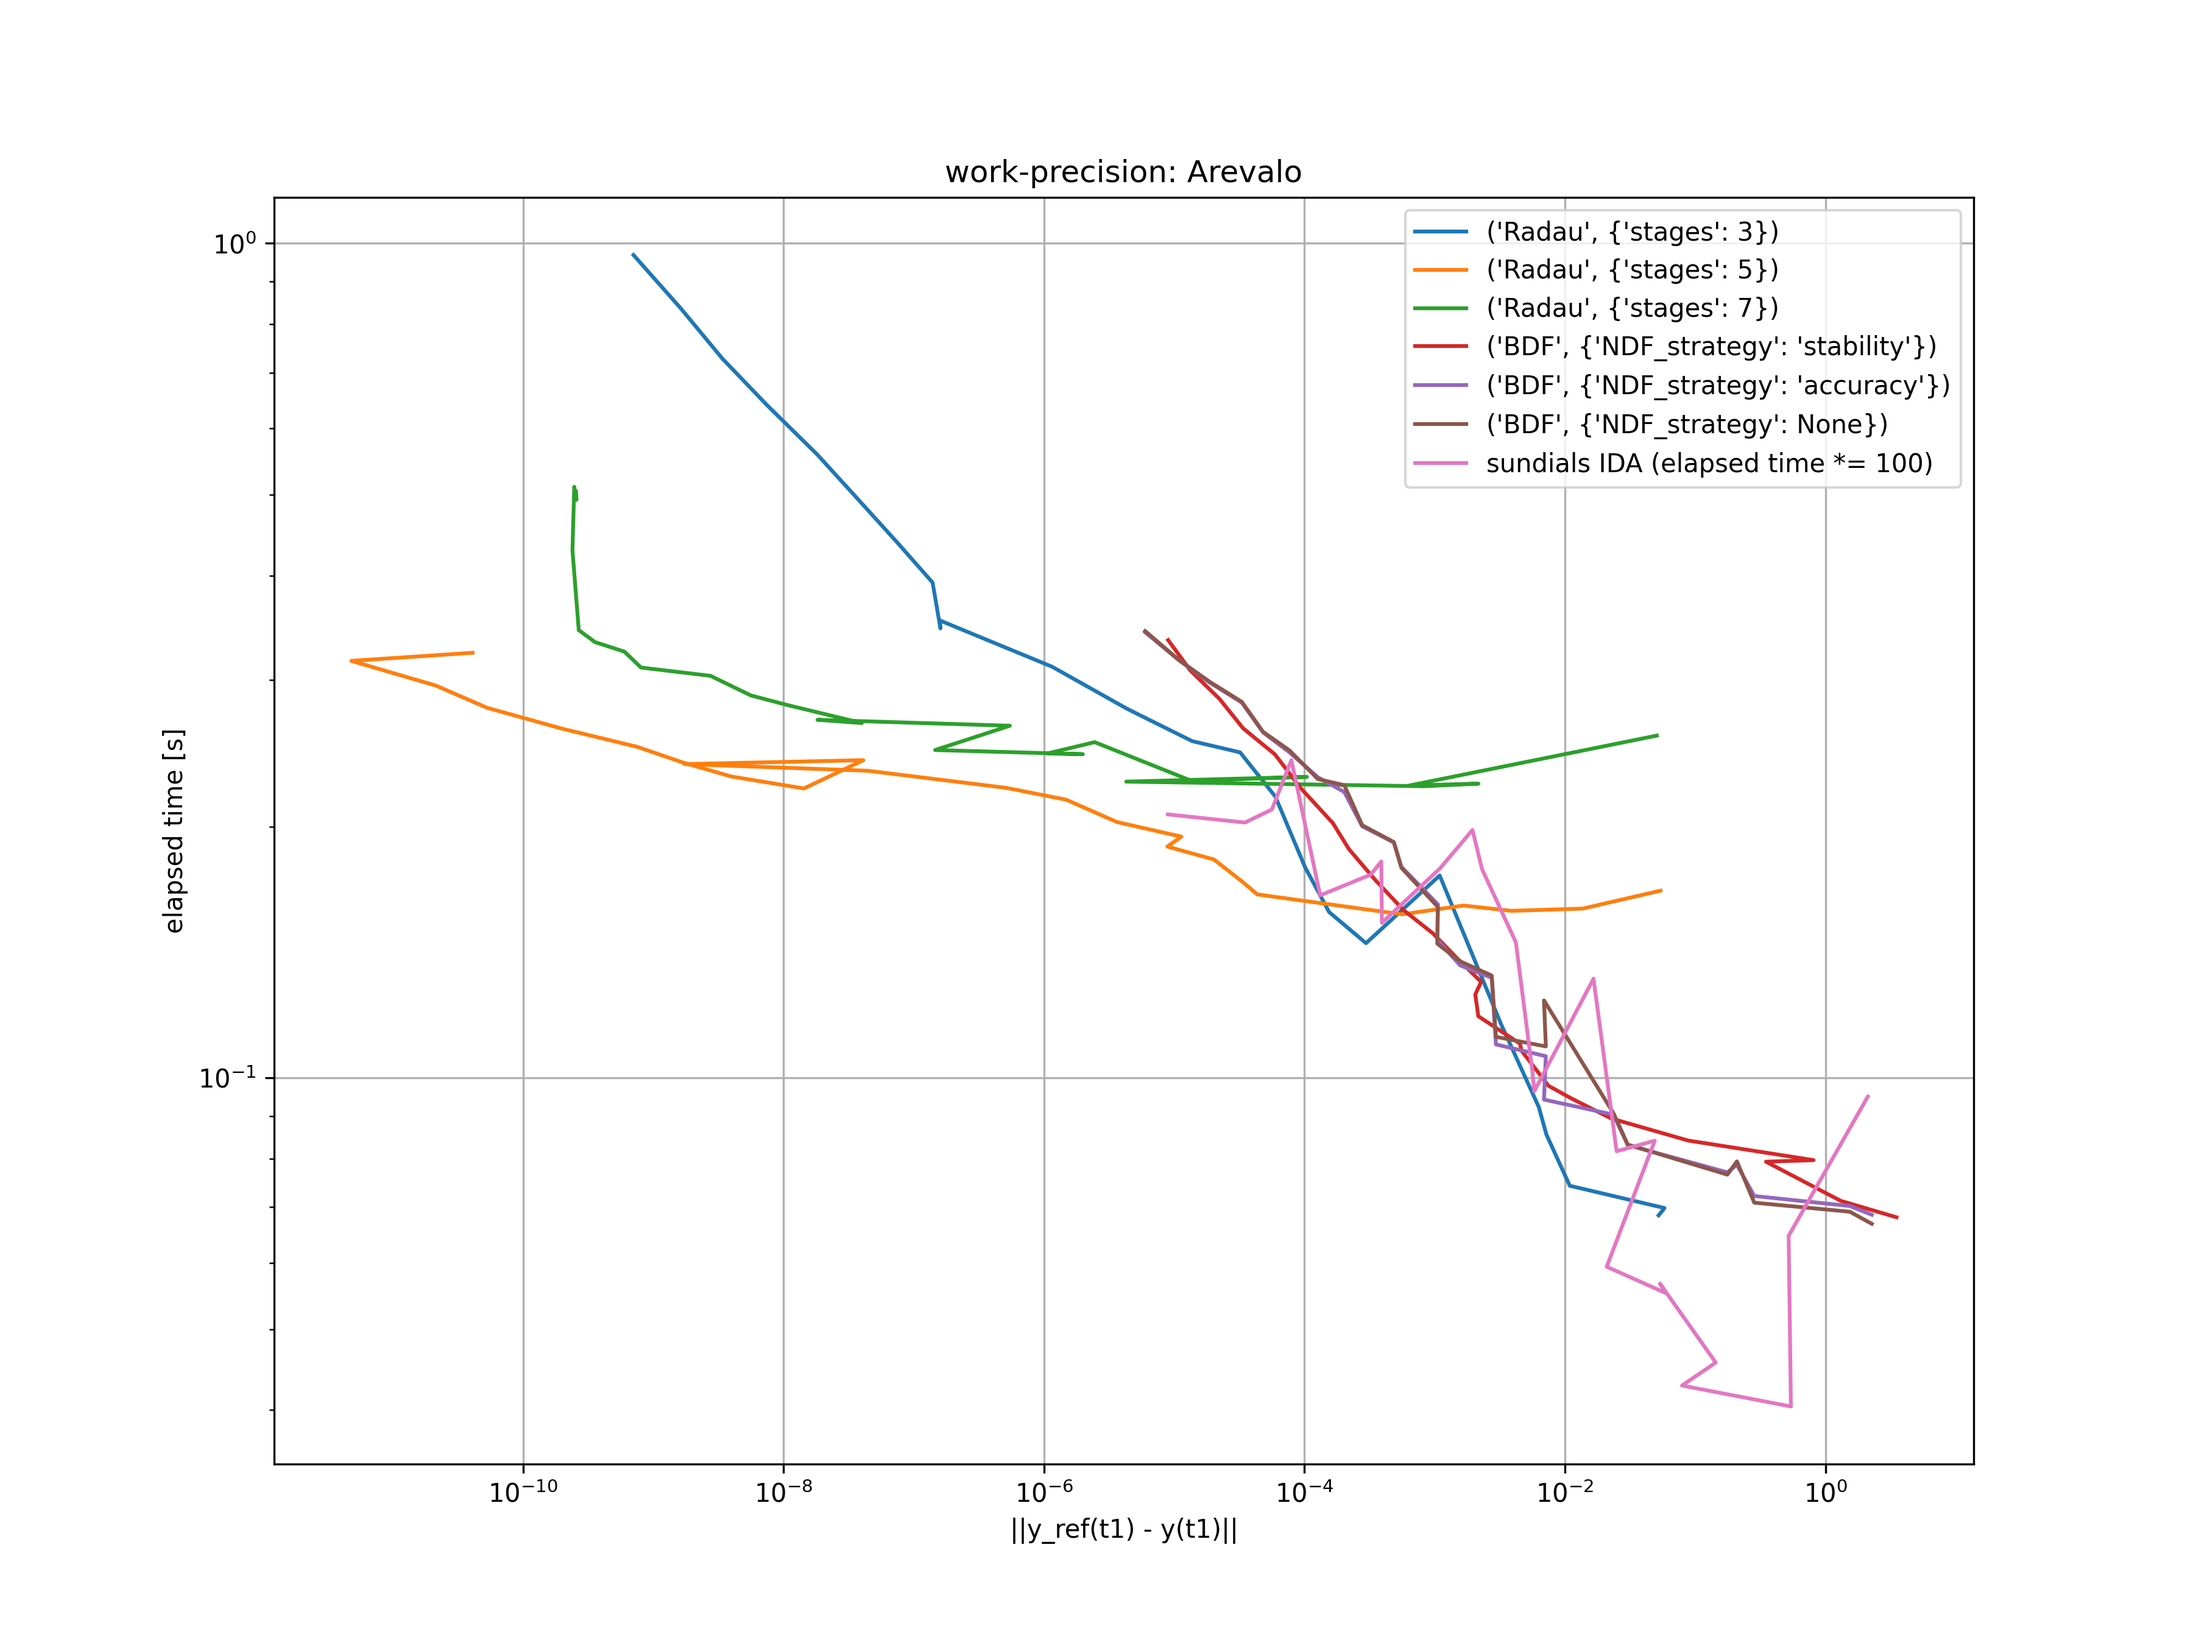
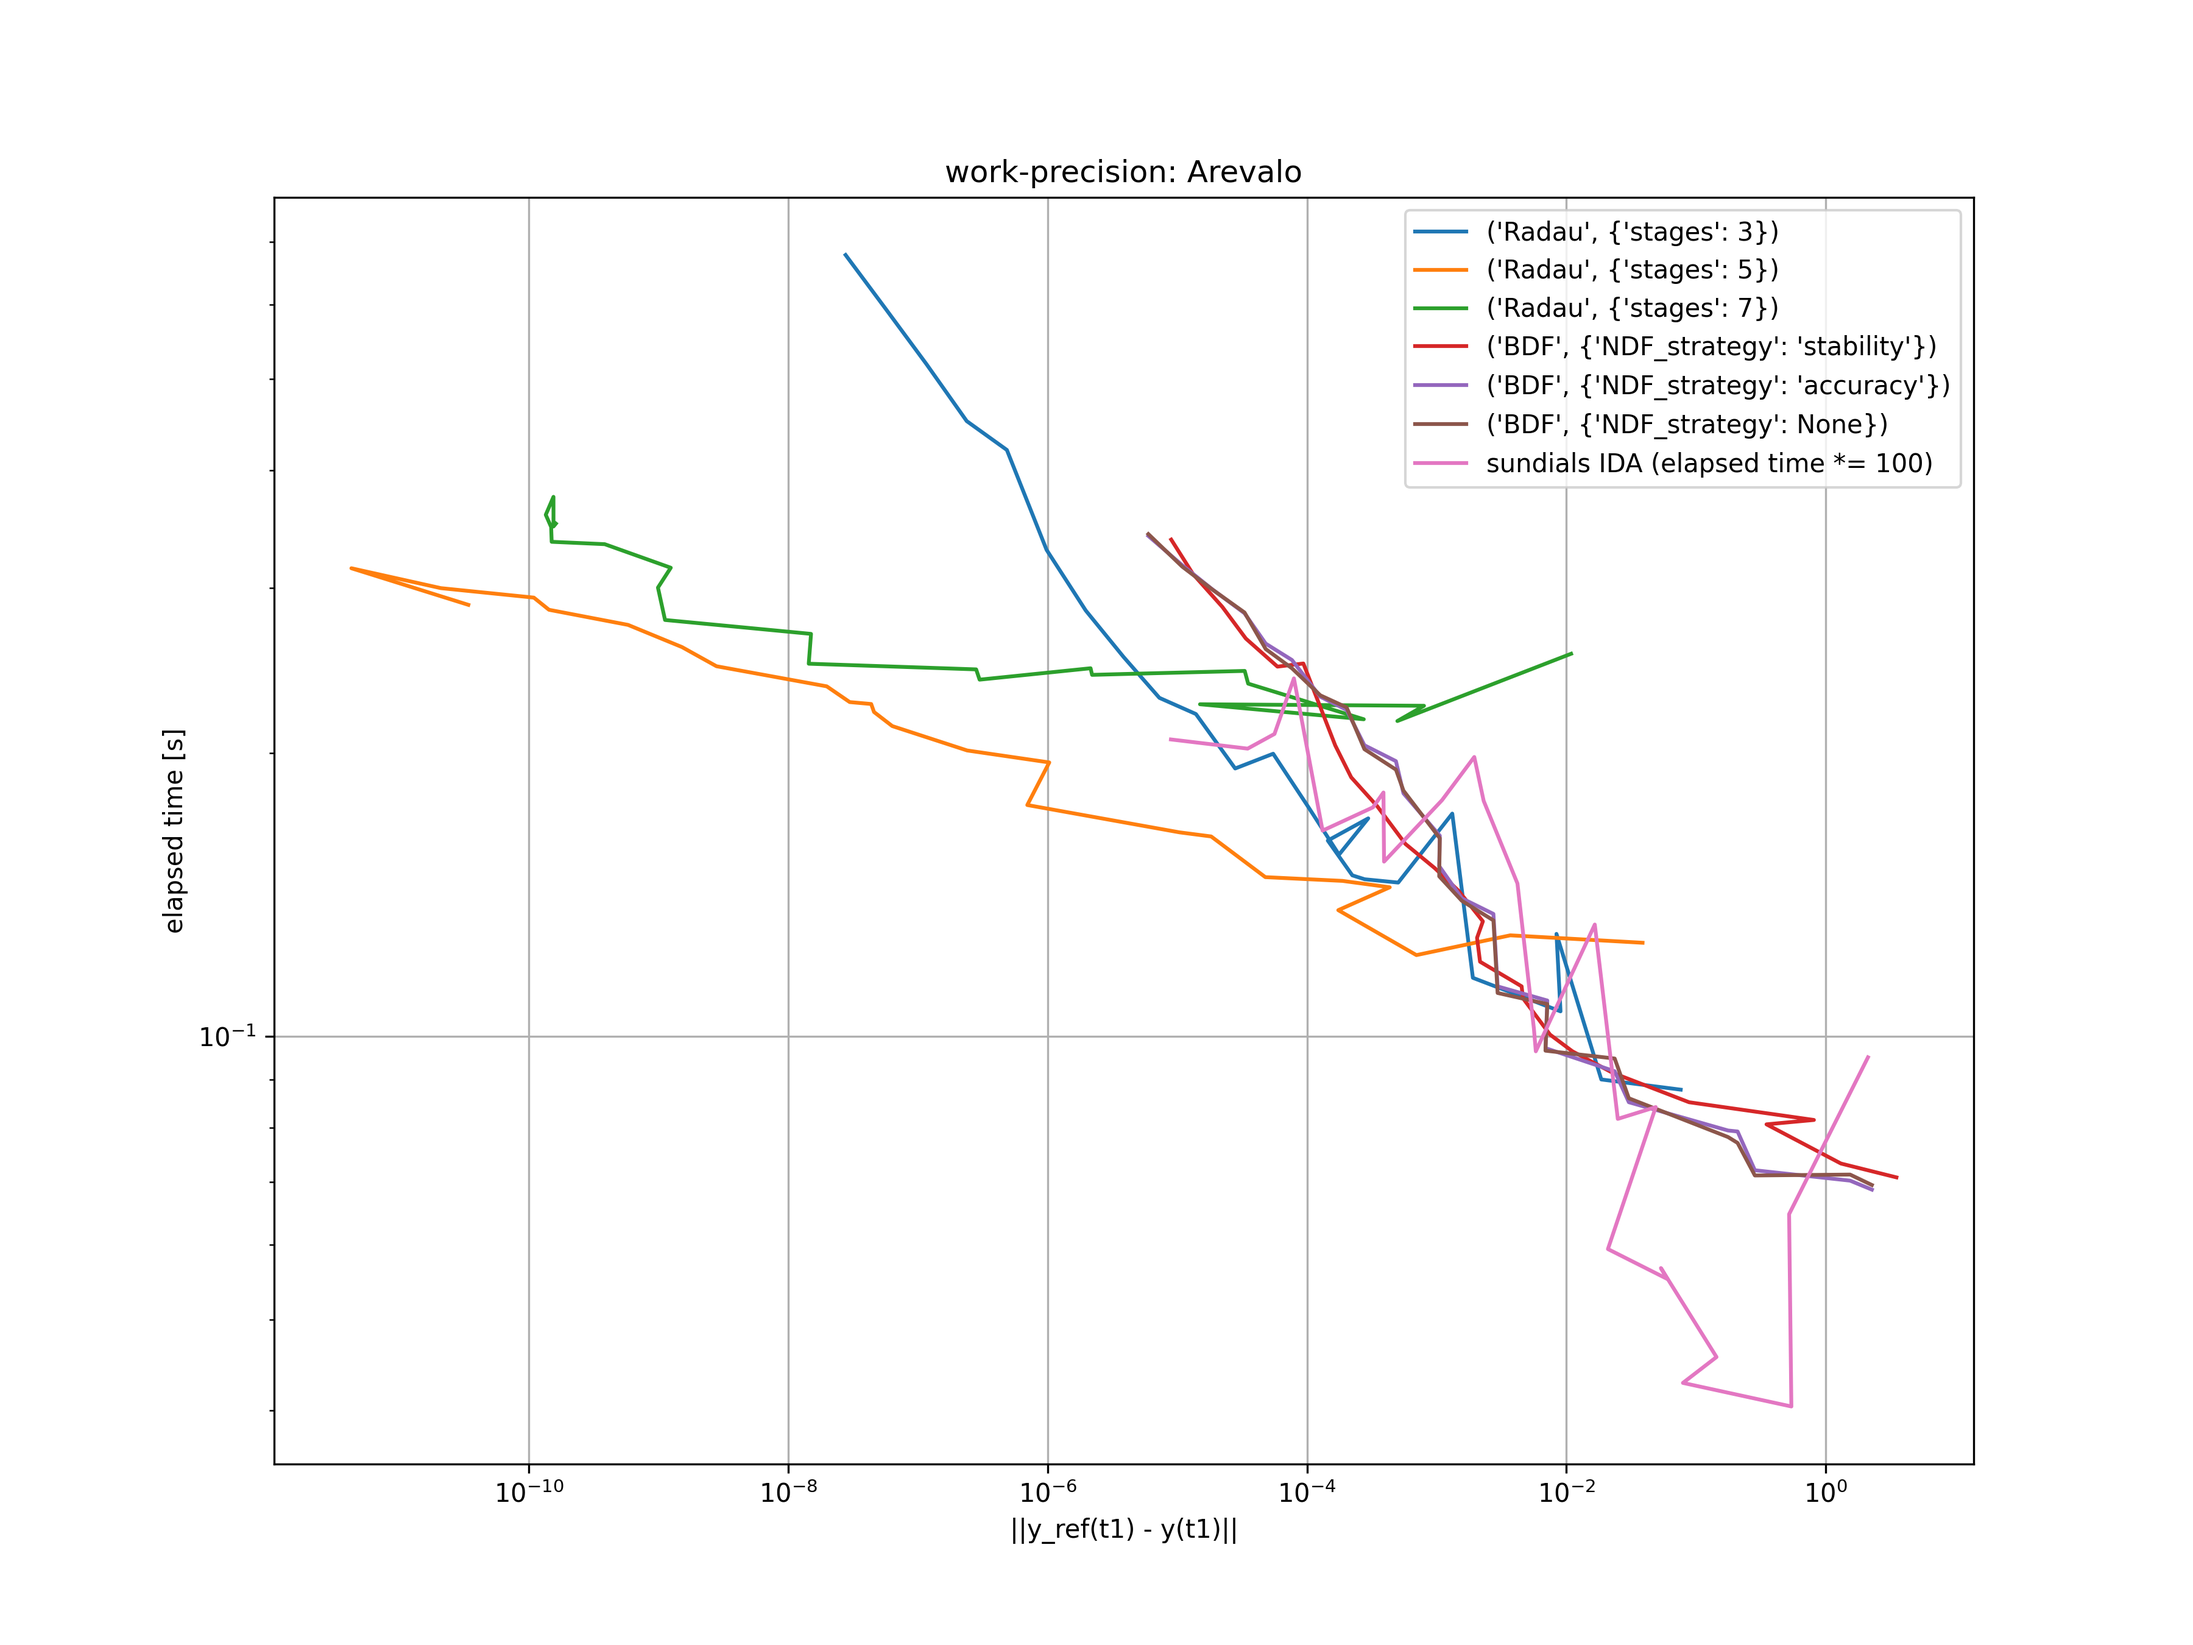
Up to date benchmarks again.

diff --git a/scipy_dae/integrate/_dae/radau.py b/scipy_dae/integrate/_dae/radau.py
@@ -6,10 +6,8 @@ from .base import DAEDenseOutput
 from .dae import DaeSolver
 
 
-DAMPING_RATIO_ERROR_ESTIMATE = 0.01 # Hairer (8.19) is obtained by the choice 1.0. 
+DAMPING_RATIO_ERROR_ESTIMATE = 0.05 # Hairer (8.19) is obtained by the choice 1.0. 
                                     # de Swart proposes 0.067 for s=3.
-MIN_FACTOR = 0.2  # Minimum allowed decrease in a step size.
-MAX_FACTOR = 10  # Maximum allowed increase in a step size.
 KAPPA = 1 # Factor of the smooth limiter
 
 # UNKNOWN_VELOCITIES = False
@@ -205,16 +203,11 @@ def solve_collocation_system(fun, t, y, h, Z0, scale, tol,
         if dW_norm_old is not None:
             rate = dW_norm / dW_norm_old
 
-        if (rate is not None and (rate >= 1 or rate ** (newton_max_iter - k) / (1 - rate) * dW_norm > tol)):
-            break
-
-        # if (rate is not None and rate >= 1.0):
-        #     # print(f"rate >= 1")
+        # if (rate is not None and (rate >= 1 or rate ** (newton_max_iter - k) / (1 - rate) * dW_norm > tol)):
         #     break
-        #     # if n_bad_iter > 5:
-        #     #     break
-        #     # else:
-        #     #     n_bad_iter += 1
+
+        if (rate is not None and rate >= 1.0):
+            break
 
         # # TODO: Why this is a bad indicator for divergence of the iteration?
         # if (rate is not None and rate ** (newton_max_iter - k) / (1 - rate) * dW_norm > tol):
@@ -229,20 +222,6 @@ def solve_collocation_system(fun, t, y, h, Z0, scale, tol,
         if (dW_norm == 0 or rate is not None and rate / (1 - rate) * dW_norm < tol):
             converged = True
             break
-
-        # # inexact simplified Newton method (https://doi.org/10.1137/S0036142999360573)
-        # # kappa2 = 0.1
-        # kappa2 = 0.01
-        # if (
-        #     dW_norm == 0 
-        #     or rate is not None and (
-        #         rate / (1 - rate) * dW_norm < tol 
-        #         # or dW_norm_old is not None and rate / (1 - rate) * dW_norm < kappa2 * rate**2 * dW_norm_old
-        #         or dW_norm_old is not None and rate / (1 - rate) * dW_norm < kappa2 * rate**2 / (1 - rate) * dW_norm_old
-        #     )
-        # ):
-        #     converged = True
-        #     break
 
         dW_norm_old = dW_norm
 
@@ -299,11 +278,11 @@ def solve_collocation_system2(fun, t, y, h, Yp0, scale, tol,
         if dY_norm_old is not None:
             rate = dY_norm / dY_norm_old
 
-        if (rate is not None and (rate >= 1 or rate ** (newton_max_iter - k) / (1 - rate) * dY_norm > tol)):
-            break
-
-        # if (rate is not None and rate >= 1.0):
+        # if (rate is not None and (rate >= 1 or rate ** (newton_max_iter - k) / (1 - rate) * dY_norm > tol)):
         #     break
+
+        if (rate is not None and rate >= 1.0):
+            break
 
         # # TODO: Why this is a bad indicator for divergence of the iteration?
         # if (rate is not None and rate ** (newton_max_iter - k) / (1 - rate) * dY_norm > tol):
@@ -356,9 +335,6 @@ def predict_factor(h_abs, h_abs_old, error_norm, error_norm_old, s):
 
     with np.errstate(divide='ignore'):
         factor = min(1, multiplier) * error_norm ** (-1 / (s + 1))
-
-    # # nonsmooth limiter
-    # factor = max(MIN_FACTOR, min(factor, MAX_FACTOR))
 
     # smooth limiter
     factor = 1 + KAPPA * np.arctan((factor - 1) / KAPPA)
@@ -656,8 +632,12 @@ class RadauDAE(DaeSolver):
                     Z0 = np.zeros((s, y.shape[0]))
             else:
                 if UNKNOWN_VELOCITIES:
-                    # note: this only works when we exrapolate the derivative of the collocation polynomial but do not use the sth order collocation polynomial for the derivatives as well.
+                    # note: this only works when we exrapolate the derivative 
+                    # of the collocation polynomial but do not use the sth order 
+                    # collocation polynomial for the derivatives as well.
                     Yp0 = self.sol(t + h * C)[1].T
+                    # Z0 = self.sol(t + h * C)[0].T - y
+                    # Yp0 = (1 / h) * A_inv @ Z0
                 else:
                     Z0 = self.sol(t + h * C)[0].T - y
             scale = atol + np.abs(y) * rtol
@@ -813,13 +793,15 @@ class RadauDAE(DaeSolver):
         return step_accepted, message
 
     def _compute_dense_output(self):
-        # Q = np.dot(self.Z.T, self.P)
-        # h = self.t - self.t_old
-        # Yp = (self.A_inv / h) @ self.Z
-        Z = self.Y - self.y_old
-        Q = np.dot(Z.T, self.P)
-        Zp = self.Yp - self.yp_old
+        Q = np.dot(self.Z.T, self.P)
+        h = self.t - self.t_old
+        Yp = (self.A_inv / h) @ self.Z
+        Zp = Yp - self.yp_old
         Qp = np.dot(Zp.T, self.P)
+        # Z = self.Y - self.y_old
+        # Q = np.dot(Z.T, self.P)
+        # Zp = self.Yp - self.yp_old
+        # Qp = np.dot(Zp.T, self.P)
         return RadauDenseOutput(self.t_old, self.t, self.y_old, Q, self.yp_old, Qp)
 
     def _dense_output_impl(self):

diff --git a/examples/odes/one_element_timoshenko_rod.py b/examples/odes/one_element_timoshenko_rod.py
@@ -212,7 +212,7 @@ if __name__ == "__main__":
     # dae solution
     ##############
     start = time.time()
-    sol = solve_dae(F, t_span, y0, yp0, atol=atol, rtol=rtol, method=method, t_eval=t_eval, stages=3)
+    sol = solve_dae(F, t_span, y0, yp0, atol=atol, rtol=rtol, method=method, t_eval=t_eval, stages=5)
     # sol = solve_ivp(f, t_span, y0, method=method, t_eval=t_eval, atol=atol, rtol=rtol)
     end = time.time()
     t = sol.t

diff --git a/examples/daes/brenan.py b/examples/daes/brenan.py
@@ -47,7 +47,6 @@ if __name__ == "__main__":
     start = time.time()
     # method = "BDF"
     method = "Radau"
-    # method = "PSIDE"
     sol = solve_dae(F, t_span, y0, yp0, atol=atol, rtol=rtol, method=method)
     end = time.time()
     print(f"elapsed time: {end - start}")

diff --git a/scipy_dae/integrate/_dae/benchmarks/weissinger/weissinger.py b/scipy_dae/integrate/_dae/benchmarks/weissinger/weissinger.py
@@ -29,7 +29,7 @@ def run_weissinger():
     # tolerances and initial step size
     rtols = 10**(-(4 + ms / 4))
     atols = rtols
-    h0s = 1e-2 * rtols
+    h0s = 1e2 * rtols
 
     # time span
     t0 = np.sqrt(0.5)

diff --git a/scipy_dae/integrate/_dae/benchmarks/kvaerno/kvaerno.py b/scipy_dae/integrate/_dae/benchmarks/kvaerno/kvaerno.py
@@ -32,8 +32,7 @@ def true_sol(t):
 
 def run_kvaerno():
     # exponents
-    # m_max = 32
-    m_max = 10
+    m_max = 32
     ms = np.arange(m_max + 1)
 
     # tolerances and initial step size

diff --git a/scipy_dae/integrate/_dae/benchmarks/knife_edge/knife_edge.py b/scipy_dae/integrate/_dae/benchmarks/knife_edge/knife_edge.py
@@ -81,7 +81,6 @@ def sol_true(t):
 
 def run_knife_edge():
     # exponents
-    # m_max = 
     m_max = 32
     ms = np.arange(m_max + 1)
 
